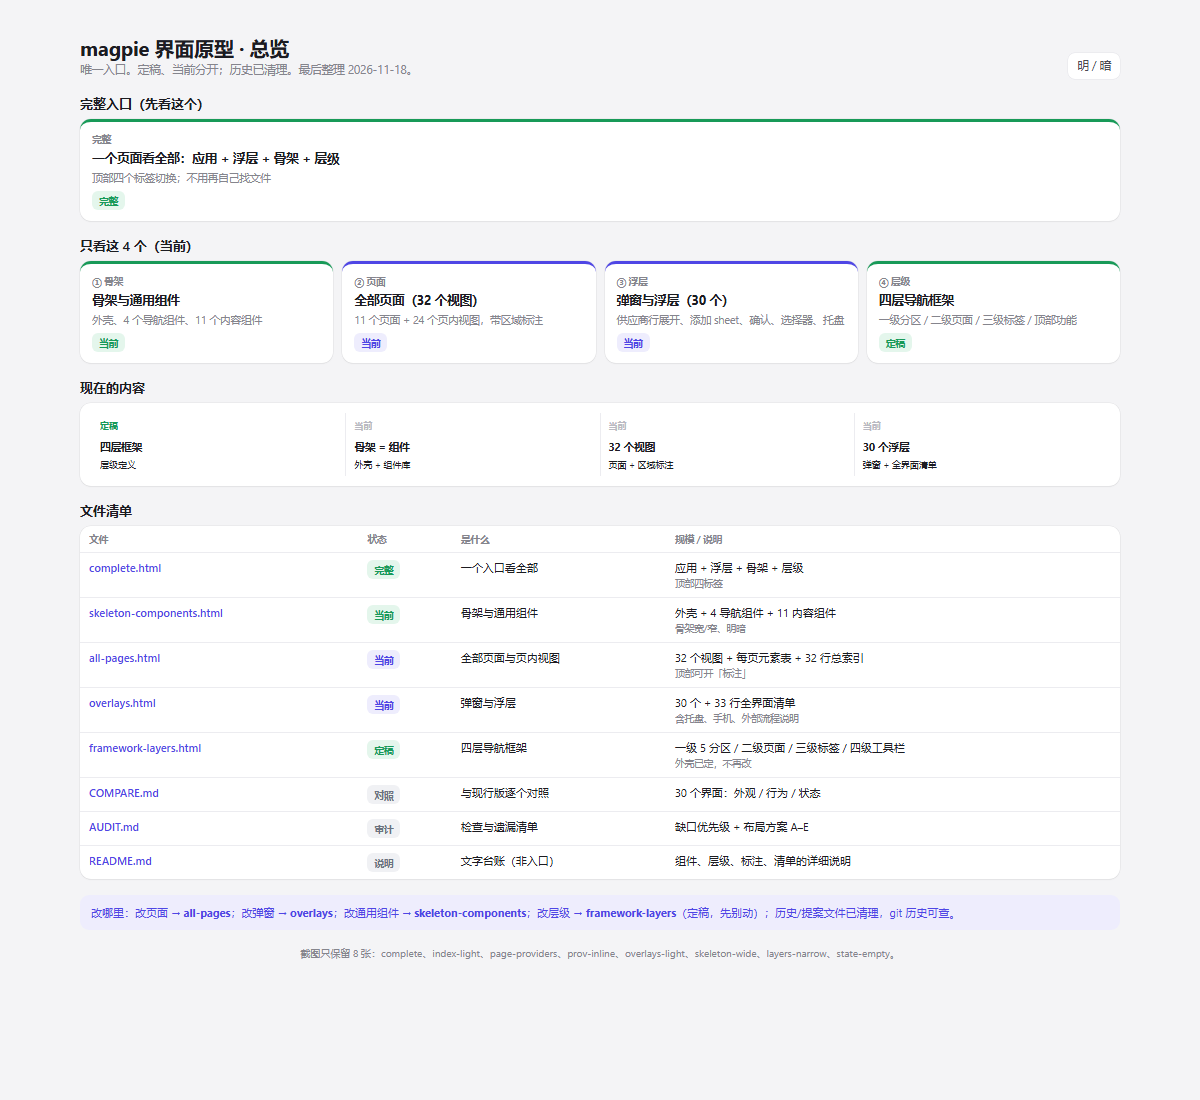
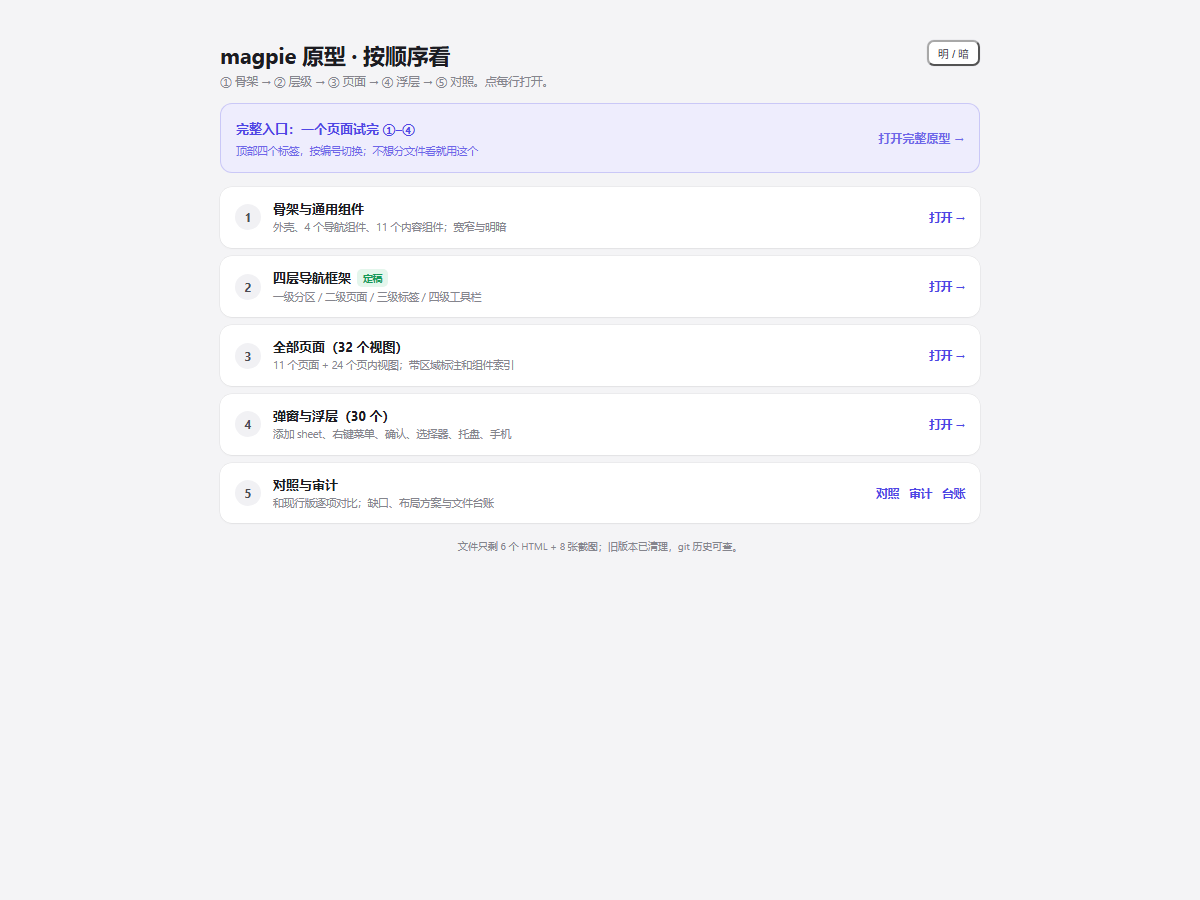
prototypes: a numbered reading order

diff --git a/workspace/附属产物/nav-refactor/index.html b/workspace/附属产物/nav-refactor/index.html
@@ -3,158 +3,102 @@
 <head>
 <meta charset="utf-8">
 <meta name="viewport" content="width=device-width, initial-scale=1">
-<title>magpie 界面原型 · 总览</title>
+<title>magpie 原型 · 按顺序看</title>
 <style>
 :root{
-  --bg:#f4f4f6; --card:#fff; --card-2:#f9f9fb; --pill:#f1f1f4;
-  --line:#e3e3e8; --line-2:#ececf0; --fg:#1c1c21; --fg-2:#4b4b53; --muted:#85858d; --faint:#b9b9c2;
-  --accent:#4f46e5; --accent-soft:#eeedfd; --green:#189a58; --green-soft:#e4f6ec;
-  --amber:#b45309; --amber-soft:#fbf0df; --grey:#6b7280; --grey-soft:#f0f1f4;
+  --bg:#f4f4f6; --card:#fff; --pill:#f1f1f4; --line:#e3e3e8; --line-2:#ececf0;
+  --fg:#1c1c21; --fg-2:#4b4b53; --muted:#85858d; --faint:#b9b9c2;
+  --accent:#4f46e5; --accent-soft:#eeedfd; --accent-fg:#fff; --green:#189a58; --green-soft:#e4f6ec;
   --font:-apple-system,BlinkMacSystemFont,"SF Pro Text","Segoe UI","Microsoft YaHei UI","Microsoft YaHei",system-ui,sans-serif;
-  --shadow:0 12px 30px rgba(20,22,30,.10),0 1px 3px rgba(20,22,30,.05),0 0 0 .5px rgba(20,22,30,.06);
+  --shadow:0 10px 26px rgba(20,22,30,.08),0 0 0 .5px rgba(20,22,30,.06);
   --shadow-sm:0 1px 2px rgba(0,0,0,.04),0 0 0 .5px rgba(0,0,0,.07);
 }
 [data-theme="dark"]{
-  --bg:#1a1a1e; --card:#232327; --card-2:#1f1f23; --pill:#2d2d33;
-  --line:#333339; --line-2:#2c2c32; --fg:#ededf1; --fg-2:#b9b9c1; --muted:#8b8b94; --faint:#56565f;
-  --accent:#a5b4fc; --accent-soft:#2b2c47; --green:#6fd99b; --green-soft:#1e3a2b;
-  --amber:#f2b544; --amber-soft:#3f3220; --grey:#9ca3af; --grey-soft:#2a2a30;
-  --shadow:0 12px 30px rgba(0,0,0,.45),0 1px 3px rgba(0,0,0,.3),0 0 0 .5px rgba(255,255,255,.08);
+  --bg:#1a1a1e; --card:#232327; --pill:#2d2d33; --line:#333339; --line-2:#2c2c32;
+  --fg:#ededf1; --fg-2:#b9b9c1; --muted:#8b8b94; --faint:#56565f;
+  --accent:#a5b4fc; --accent-soft:#2b2c47; --accent-fg:#14142a; --green:#6fd99b; --green-soft:#1e3a2b;
+  --shadow:0 10px 26px rgba(0,0,0,.4),0 0 0 .5px rgba(255,255,255,.08);
   --shadow-sm:0 1px 2px rgba(0,0,0,.3),0 0 0 .5px rgba(255,255,255,.09);
 }
 *{box-sizing:border-box;margin:0;padding:0}
-body{font-family:var(--font);background:var(--bg);color:var(--fg);min-height:100vh;padding:34px 20px 40px;display:flex;flex-direction:column;align-items:center;gap:18px;-webkit-font-smoothing:antialiased}
-a{color:inherit;text-decoration:none}
-button{font:inherit;color:inherit;background:none;border:0;cursor:pointer}
-h1{font-size:20px;font-weight:650;letter-spacing:-.01em}
-h2{font-size:13px;font-weight:600;margin-bottom:7px}
-.sub{font-size:11.5px;color:var(--muted);line-height:1.55}
-.wrap{width:1040px;max-width:100%;display:flex;flex-direction:column;gap:16px}
-.top{display:flex;align-items:flex-end;gap:12px;flex-wrap:wrap}
+body{font-family:var(--font);background:var(--bg);color:var(--fg);min-height:100vh;display:flex;justify-content:center;padding:40px 20px}
+.wrap{width:760px;max-width:100%;display:flex;flex-direction:column;gap:14px}
+.top{display:flex;align-items:flex-start;gap:12px}
 .top .grow{flex:1}
-.tbtn{height:26px;padding:0 9px;border-radius:7px;font-size:11.5px;color:var(--fg-2);background:var(--card);box-shadow:0 0 0 .5px var(--line)}
+h1{font-size:22px;font-weight:650;letter-spacing:-.01em}
+.lead{font-size:11.5px;color:var(--muted);margin-top:4px}
+.tbtn{height:26px;padding:0 9px;border-radius:7px;font-size:11px;color:var(--fg-2);background:var(--card);box-shadow:0 0 0 .5px var(--line)}
 .tbtn:hover{color:var(--fg)}
-.pill{display:inline-flex;align-items:center;height:19px;padding:0 7px;border-radius:6px;font-size:9.5px;font-weight:600;white-space:nowrap}
-.pill.ok{background:var(--green-soft);color:var(--green)}
-.pill.now{background:var(--accent-soft);color:var(--accent)}
-.pill.prop{background:var(--amber-soft);color:var(--amber)}
-.pill.old{background:var(--grey-soft);color:var(--grey)}
+a{color:inherit;text-decoration:none}
 
-.hero{display:grid;grid-template-columns:repeat(4,1fr);gap:9px}
-@media (max-width:900px){.hero{grid-template-columns:1fr 1fr}}
-.entry{display:flex;flex-direction:column;gap:5px;background:var(--card);border-radius:11px;padding:11px 12px;box-shadow:var(--shadow-sm);border-top:3px solid var(--accent)}
-.entry.ok{border-top-color:var(--green)}
-.entry .n{font-size:9.5px;color:var(--muted);font-weight:600}
-.entry b{font-size:12.5px}
-.entry .d{font-size:10.5px;color:var(--muted);line-height:1.45}
-.entry .pill{align-self:flex-start}
-.entry:hover{box-shadow:var(--shadow)}
+.complete{display:flex;align-items:center;gap:12px;background:var(--accent-soft);border:1px solid color-mix(in srgb,var(--accent) 22%,transparent);border-radius:12px;padding:13px 15px}
+.complete b{font-size:13px;color:var(--accent)}
+.complete span{font-size:10.5px;color:var(--accent);opacity:.8}
+.complete .go{margin-left:auto;font-size:12px;color:var(--accent);font-weight:600;white-space:nowrap}
+.complete:hover{background:color-mix(in srgb,var(--accent-soft) 75%,var(--card))}
 
-.timeline{display:flex;align-items:stretch;gap:0;background:var(--card);border-radius:11px;padding:10px 12px;box-shadow:var(--shadow-sm);overflow-x:auto}
-.step{flex:1;min-width:110px;padding:6px 8px;border-left:1px solid var(--line-2);display:flex;flex-direction:column;gap:3px}
-.step:first-child{border-left:0}
-.step .v{font-size:9px;color:var(--faint);font-weight:600}
-.step b{font-size:10.5px}
-.step .s{font-size:9px}
-.step a:hover b{color:var(--accent)}
-.step.old{opacity:.62}
-.step.prop .v{color:var(--amber)}
-.step.ok .v{color:var(--green)}
-
-table{width:100%;border-collapse:collapse;background:var(--card);border-radius:11px;overflow:hidden;box-shadow:var(--shadow-sm);font-size:11px}
-th,td{text-align:left;padding:7px 9px;border-top:.5px solid var(--line-2);vertical-align:top}
-th{font-size:9.5px;color:var(--muted);font-weight:600;border-top:0}
-td:first-child{font-weight:500;white-space:nowrap}
-td a{color:var(--accent)}
-td a:hover{text-decoration:underline}
-td .f{font-size:9.5px;color:var(--muted)}
-.mono{font-family:ui-monospace,Consolas,monospace;font-size:10px;color:var(--muted)}
-.note{background:var(--accent-soft);color:var(--accent);border-radius:9px;padding:9px 11px;font-size:11px;line-height:1.55}
-.foot{font-size:10px;color:var(--muted);text-align:center}
+.steps{display:flex;flex-direction:column;gap:8px}
+.step{display:flex;align-items:center;gap:12px;background:var(--card);border-radius:12px;padding:13px 15px;box-shadow:var(--shadow-sm)}
+.step:hover{box-shadow:var(--shadow)}
+.num{flex:none;width:26px;height:26px;border-radius:50%;background:var(--pill);color:var(--fg-2);font-size:12px;font-weight:650;display:inline-flex;align-items:center;justify-content:center}
+.step main{flex:1;min-width:0;display:flex;flex-direction:column;gap:3px}
+.step b{font-size:13px}
+.step .d{font-size:10.5px;color:var(--muted);line-height:1.4}
+.go{flex:none;font-size:11.5px;color:var(--accent);font-weight:600;white-space:nowrap}
+.step:hover .go{text-decoration:underline}
+.pill{display:inline-flex;align-items:center;height:18px;padding:0 6px;border-radius:5px;font-size:9.5px;font-weight:600;background:var(--green-soft);color:var(--green);margin-left:6px;vertical-align:1px}
+.links{flex:none;display:flex;gap:10px;font-size:11.5px;color:var(--accent);font-weight:600}
+.links a:hover{text-decoration:underline}
+.foot{font-size:10px;color:var(--muted);text-align:center;line-height:1.5;margin-top:2px}
 </style>
 </head>
 <body>
 <div class="wrap">
   <div class="top">
     <div class="grow">
-      <h1>magpie 界面原型 · 总览</h1>
-      <p class="sub">唯一入口。定稿、当前分开；历史已清理。最后整理 2026-11-18。</p>
+      <h1>magpie 原型 · 按顺序看</h1>
+      <p class="lead">① 骨架 → ② 层级 → ③ 页面 → ④ 浮层 → ⑤ 对照。点每行打开。</p>
     </div>
     <button class="tbtn" id="themeBtn">明 / 暗</button>
   </div>
 
-  <div>
-    <h2>完整入口（先看这个）</h2>
-    <a class="entry ok" href="complete.html" style="grid-column:1/-1">
-      <span class="n">完整</span>
-      <b>一个页面看全部：应用 + 浮层 + 骨架 + 层级</b>
-      <span class="d">顶部四个标签切换；不用再自己找文件</span>
-      <span class="pill ok">完整</span>
+  <a class="complete" href="complete.html">
+    <div>
+      <b>完整入口：一个页面试完 ①–④</b><br>
+      <span>顶部四个标签，按编号切换；不想分文件看就用这个</span>
+    </div>
+    <span class="go">打开完整原型 →</span>
+  </a>
+
+  <div class="steps">
+    <a class="step" href="skeleton-components.html">
+      <span class="num">1</span>
+      <main><b>骨架与通用组件</b><span class="d">外壳、4 个导航组件、11 个内容组件；宽窄与明暗</span></main>
+      <span class="go">打开 →</span>
     </a>
-  </div>
-
-  <div>
-    <h2>只看这 4 个（当前）</h2>
-    <div class="hero">
-      <a class="entry ok" href="skeleton-components.html">
-        <span class="n">① 骨架</span>
-        <b>骨架与通用组件</b>
-        <span class="d">外壳、4 个导航组件、11 个内容组件</span>
-        <span class="pill ok">当前</span>
-      </a>
-      <a class="entry" href="all-pages.html">
-        <span class="n">② 页面</span>
-        <b>全部页面（32 个视图）</b>
-        <span class="d">11 个页面 + 24 个页内视图，带区域标注</span>
-        <span class="pill now">当前</span>
-      </a>
-      <a class="entry" href="overlays.html">
-        <span class="n">③ 浮层</span>
-        <b>弹窗与浮层（30 个）</b>
-        <span class="d">供应商行展开、添加 sheet、确认、选择器、托盘</span>
-        <span class="pill now">当前</span>
-      </a>
-      <a class="entry ok" href="framework-layers.html">
-        <span class="n">④ 层级</span>
-        <b>四层导航框架</b>
-        <span class="d">一级分区 / 二级页面 / 三级标签 / 顶部功能</span>
-        <span class="pill ok">定稿</span>
-      </a>
+    <a class="step" href="framework-layers.html">
+      <span class="num">2</span>
+      <main><b>四层导航框架<span class="pill">定稿</span></b><span class="d">一级分区 / 二级页面 / 三级标签 / 四级工具栏</span></main>
+      <span class="go">打开 →</span>
+    </a>
+    <a class="step" href="all-pages.html">
+      <span class="num">3</span>
+      <main><b>全部页面（32 个视图）</b><span class="d">11 个页面 + 24 个页内视图；带区域标注和组件索引</span></main>
+      <span class="go">打开 →</span>
+    </a>
+    <a class="step" href="overlays.html">
+      <span class="num">4</span>
+      <main><b>弹窗与浮层（30 个）</b><span class="d">添加 sheet、右键菜单、确认、选择器、托盘、手机</span></main>
+      <span class="go">打开 →</span>
+    </a>
+    <div class="step">
+      <span class="num">5</span>
+      <main><b>对照与审计</b><span class="d">和现行版逐项对比；缺口、布局方案与文件台账</span></main>
+      <span class="links"><a href="COMPARE.md">对照</a><a href="AUDIT.md">审计</a><a href="MANIFEST.md">台账</a></span>
     </div>
   </div>
 
-  <div>
-    <h2>现在的内容</h2>
-    <div class="timeline">
-      <div class="step ok"><span class="v">定稿</span><a href="framework-layers.html"><b>四层框架</b></a><span class="s">层级定义</span></div>
-      <div class="step"><span class="v">当前</span><a href="skeleton-components.html"><b>骨架 = 组件</b></a><span class="s">外壳 + 组件库</span></div>
-      <div class="step"><span class="v">当前</span><a href="all-pages.html"><b>32 个视图</b></a><span class="s">页面 + 区域标注</span></div>
-      <div class="step"><span class="v">当前</span><a href="overlays.html"><b>30 个浮层</b></a><span class="s">弹窗 + 全界面清单</span></div>
-    </div>
-  </div>
-
-  <div>
-    <h2>文件清单</h2>
-    <table>
-      <thead><tr><th>文件</th><th>状态</th><th>是什么</th><th>规模 / 说明</th></tr></thead>
-      <tbody>
-        <tr><td><a href="complete.html">complete.html</a></td><td><span class="pill ok">完整</span></td><td>一个入口看全部</td><td>应用 + 浮层 + 骨架 + 层级<br><span class="f">顶部四标签</span></td></tr>
-        <tr><td><a href="skeleton-components.html">skeleton-components.html</a></td><td><span class="pill ok">当前</span></td><td>骨架与通用组件</td><td>外壳 + 4 导航组件 + 11 内容组件<br><span class="f">骨架宽/窄、明暗</span></td></tr>
-        <tr><td><a href="all-pages.html">all-pages.html</a></td><td><span class="pill now">当前</span></td><td>全部页面与页内视图</td><td>32 个视图 + 每页元素表 + 32 行总索引<br><span class="f">顶部可开「标注」</span></td></tr>
-        <tr><td><a href="overlays.html">overlays.html</a></td><td><span class="pill now">当前</span></td><td>弹窗与浮层</td><td>30 个 + 33 行全界面清单<br><span class="f">含托盘、手机、外部流程说明</span></td></tr>
-        <tr><td><a href="framework-layers.html">framework-layers.html</a></td><td><span class="pill ok">定稿</span></td><td>四层导航框架</td><td>一级 5 分区 / 二级页面 / 三级标签 / 四级工具栏<br><span class="f">外壳已定，不再改</span></td></tr>
-        <tr><td><a href="COMPARE.md">COMPARE.md</a></td><td><span class="pill old">对照</span></td><td>与现行版逐个对照</td><td>30 个界面：外观 / 行为 / 状态</td></tr>
-        <tr><td><a href="AUDIT.md">AUDIT.md</a></td><td><span class="pill old">审计</span></td><td>检查与遗漏清单</td><td>缺口优先级 + 布局方案 A–E</td></tr>
-        <tr><td><a href="README.md">README.md</a></td><td><span class="pill old">说明</span></td><td>文字台账（非入口）</td><td>组件、层级、标注、清单的详细说明</td></tr>
-      </tbody>
-    </table>
-  </div>
-
-  <div class="note">
-    改哪里：改页面 → <b>all-pages</b>；改弹窗 → <b>overlays</b>；改通用组件 → <b>skeleton-components</b>；改层级 → <b>framework-layers</b>（定稿，先别动）；历史/提案文件已清理，git 历史可查。
-  </div>
-
-  <p class="foot">截图只保留 8 张：complete、index-light、page-providers、prov-inline、overlays-light、skeleton-wide、layers-narrow、state-empty。</p>
+  <p class="foot">文件只剩 6 个 HTML + 8 张截图；旧版本已清理，git 历史可查。</p>
 </div>
 
 <script>

diff --git a/workspace/附属产物/nav-refactor/complete.html b/workspace/附属产物/nav-refactor/complete.html
@@ -34,12 +34,12 @@ iframe{flex:1;width:100%;border:0;display:block;background:var(--bg)}
 </head>
 <body>
 <header>
-  <div class="brand">magpie 完整原型 <span>一个入口 · 四个标签</span></div>
+  <div class="brand">magpie 完整原型 <span>按 ①→④ 看 · ③ 是主应用</span></div>
   <nav id="tabs">
-    <button data-tab="app" class="on">应用（32 视图）</button>
-    <button data-tab="overlays">浮层（30 个）</button>
-    <button data-tab="skeleton">骨架组件</button>
-    <button data-tab="layers">四层框架</button>
+    <button data-tab="skeleton">① 骨架</button>
+    <button data-tab="layers">② 层级</button>
+    <button data-tab="app" class="on">③ 应用（32）</button>
+    <button data-tab="overlays">④ 浮层（30）</button>
   </nav>
   <span class="grow"></span>
   <span class="hint">零件与历史文件不用打开</span>

diff --git a/workspace/附属产物/nav-refactor/README.md b/workspace/附属产物/nav-refactor/README.md
@@ -1,5 +1,7 @@
 # magpie 界面原型 · 说明台账（非入口）
 
+> **阅读顺序：** ① 骨架 → ② 层级 → ③ 应用 → ④ 浮层 → ⑤ 对照（`index.html`）。
+>
 > **完整入口：`complete.html`**（应用 + 浮层 + 骨架 + 层级，一个页面四个标签）。
 
 > 入口是 `index.html`。本文件只做文字台账，不并列为“当前页面”。

diff --git a/workspace/附属产物/nav-refactor/MANIFEST.md b/workspace/附属产物/nav-refactor/MANIFEST.md
@@ -1,6 +1,6 @@
 # 原型文件清单（唯一来源）
 
-最后整理：2026-11-18。只从 `index.html` 进入；本文件是给人和 agent 看的台账。
+最后整理：2026-11-18。阅读顺序：① 骨架 → ② 层级 → ③ 应用 → ④ 浮层 → ⑤ 对照。入口 `index.html`；完整入口 `complete.html`。
 
 ## 当前（会继续改）
 
